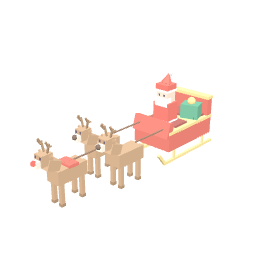
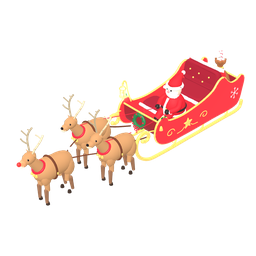
v236: 🛷 산타 썰매 v2 — 곡선 썰매·둥근 순록, 다른 유저 썰매는 가벼운 버전

Changed region(s): [[0.0625, 0.1875, 0.9688, 0.8125]]

diff --git a/sleigh-v236.js b/sleigh-v236.js
@@ -1,0 +1,236 @@
+// 피쉬코지 🛷 산타 썰매 v2 (v236 적용) — Three.js r147 순수 프로시저럴
+// 박스(BoxGeometry) 0개: 곡선 튜브 · 압출(베벨) · 회전체(Lathe) · 구 로만 만들어요.
+// 계약(기존 VEHB.V.santa 와 동일): 앞쪽 = +z, 바닥 y=0, 게임에서 ×1.7 스케일
+//   userData.seat=[0,.92,-.45] (플레이어 자리) · userData.legs=[{p,ph}] (다리 피벗) · userData.heads=[머리 그룹] · userData.pose='sit'
+// 사용: game-v2.js VEHB.V.santa(lite) → SLEIGH_V2(THREE,{lite}) · 내 썰매 = 기본, 다른 유저 썰매 = lite(가벼운 버전)
+(function(root){
+function SLEIGH_V2(T,opt){
+ T=T||root.THREE;opt=opt||{};const LITE=!!opt.lite,LQ=LITE?.5:1;/* lite: 멀리 있는 다른 유저용 가벼운 버전 */const V3=(x,y,z)=>new T.Vector3(x,y,z),V2=(x,y)=>new T.Vector2(x,y);
+ const C=SLEIGH_V2._c||(SLEIGH_V2._c={});
+ // ── 환경맵(작은 그라데이션 1장) : 황금·광택 도장이 검게 죽지 않게 ──
+ const env=C.env||(C.env=(()=>{const cv=document.createElement('canvas');cv.width=256;cv.height=128;const x=cv.getContext('2d');const g=x.createLinearGradient(0,0,0,128);
+  g.addColorStop(0,'#cfe3ff');g.addColorStop(.42,'#fff4dc');g.addColorStop(.5,'#ffd9a0');g.addColorStop(.56,'#bfc8d6');g.addColorStop(1,'#eef2f6');x.fillStyle=g;x.fillRect(0,0,256,128);
+  x.fillStyle='rgba(255,255,255,.95)';[[40,30,10],[150,22,14],[210,40,8]].forEach(([a,b,r])=>{x.beginPath();x.arc(a,b,r,0,7);x.fill();});
+  const t=new T.CanvasTexture(cv);t.mapping=T.EquirectangularReflectionMapping;t.encoding=T.sRGBEncoding;return t;})());
+ const M=C.m||(C.m={});
+ const LIN=o=>{o=Object.assign({},o);for(const k of ['color','emissive'])if(typeof o[k]==='string')o[k]=new T.Color(o[k]).convertSRGBToLinear();return o;};
+ const mat=(k,o)=>M[k]||(M[k]=new T.MeshStandardMaterial(LIN(o)));
+ const lac=mat('lac',{color:'#cc1a26',roughness:.26,metalness:.12,envMap:env,envMapIntensity:.9});
+ const lacD=mat('lacD',{color:'#8a1420',roughness:.5,metalness:.05,envMap:env,envMapIntensity:.5});
+ const gold=mat('gold',{color:'#ffd86a',roughness:.28,metalness:.62,envMap:env,envMapIntensity:1.2});
+ const velvet=mat('vel',{color:'#9c1a2e',roughness:.95,metalness:0});
+ const fur=mat('fur',{color:'#fbf7ef',roughness:1,metalness:0});
+ const holly=mat('holly',{color:'#1d6b3a',roughness:.45,metalness:0,side:T.DoubleSide,envMap:env,envMapIntensity:.4});
+ const berry=mat('berry',{color:'#d3122a',roughness:.25,metalness:0,envMap:env,envMapIntensity:.7});
+ const glow=M.glow||(M.glow=new T.MeshBasicMaterial(LIN({color:'#ffd27a'})));
+ const flame=M.flame||(M.flame=new T.MeshBasicMaterial(LIN({color:'#fff3c4'})));
+ const glass=mat('glass',{color:'#ffcf7a',roughness:.1,metalness:0,emissive:'#ffb44a',emissiveIntensity:.9,transparent:true,opacity:.55,depthWrite:false});
+ const brown=mat('dbr',{color:'#c48e5e',roughness:.8}),brownD=mat('dbrd',{color:'#8e6246',roughness:.8}),cream=mat('dcr',{color:'#e9d3b0',roughness:.9});
+ const antler=mat('ant',{color:'#dcc39b',roughness:.7}),hoof=mat('hoof',{color:'#33241c',roughness:.6}),ink=mat('ink',{color:'#1d1517',roughness:.3,envMap:env,envMapIntensity:.6});
+ const rnose=M.rnose||(M.rnose=new T.MeshStandardMaterial(LIN({color:'#ff3030',emissive:'#ff1a1a',emissiveIntensity:1.1,roughness:.3})));
+ const leather=mat('lea',{color:'#6e3a24',roughness:.6,metalness:.05});
+ const skin=mat('skin',{color:'#f8d2b4',roughness:.8}),suit=mat('suit',{color:'#d8222f',roughness:.65}),boot=mat('boot',{color:'#231a1a',roughness:.4,envMap:env,envMapIntensity:.4}),pink=mat('pink',{color:'#f29a9a',roughness:.9});
+ const sack=mat('sack',{color:'#a8643c',roughness:.95});
+ const gc={em:mat('gem',{color:'#16865a',roughness:.35,envMap:env,envMapIntensity:.6}),bl:mat('gbl',{color:'#2b5fc0',roughness:.35,envMap:env,envMapIntensity:.6}),pu:mat('gpu',{color:'#7c3fb0',roughness:.35,envMap:env,envMapIntensity:.6}),wh:mat('gwh',{color:'#f6f2ea',roughness:.4,envMap:env,envMapIntensity:.5}),gd:gold};
+ const silver=mat('sil',{color:'#e3e8ef',roughness:.25,metalness:.7,envMap:env,envMapIntensity:1.1});
+ const g=new T.Group(),legs=[],heads=[];
+ const add=(geo,m,p,par,r,s)=>{const o=new T.Mesh(geo,m);if(p)o.position.set(p[0],p[1],p[2]);if(r)o.rotation.set(r[0]||0,r[1]||0,r[2]||0);if(s)(typeof s==='number')?o.scale.setScalar(s):o.scale.set(s[0],s[1],s[2]);(par||g).add(o);return o;};
+ const tube=(pts,r,m,seg,rs,par,closed)=>add(new T.TubeGeometry(new T.CatmullRomCurve3(pts.map(p=>V3(p[0],p[1],p[2])),!!closed,'centripetal'),Math.max(2,Math.round((seg||32)*.8*LQ)),r,Math.min(rs||8,r<.02?4:r<.03?5:LITE?6:8),!!closed),m,null,par);
+ const sph=(r,m,p,s,par,ws,hs)=>add(new T.SphereGeometry(r,Math.max(5,Math.round((ws||10)*(LITE?.7:1))),Math.max(4,Math.round((hs||8)*(LITE?.7:1)))),m,p,par,null,s);
+ // 해시 노이즈(같은 위치 = 같은 값 → 이음매 안 갈라짐)
+ const hn=(x,y,z)=>{const s=Math.sin(x*12.9898+y*78.233+z*37.719)*43758.5453;return s-Math.floor(s);};
+ const fluff=(geo,amt)=>{const p=geo.attributes.position,n=geo.attributes.normal;for(let i=0;i<p.count;i++){const x=p.getX(i),y=p.getY(i),z=p.getZ(i),k=(Math.sin(x*33+y*13)*Math.sin(z*29+x*11)*.6+Math.sin(y*41+z*17)*.4)*amt*.55;p.setXYZ(i,x+n.getX(i)*k,y+n.getY(i)*k,z+n.getZ(i)*k);}geo.computeVertexNormals();return geo;};
+ const furTube=(pts,r,par,seg)=>{const geo=new T.TubeGeometry(new T.CatmullRomCurve3(pts.map(p=>V3(...p)),false,'centripetal'),Math.round((seg||28)*.75*LQ),r,LITE?6:8,false);fluff(geo,r*.4);return add(geo,fur,null,par);};
+ const lathe=(prof,seg,m,p,par,r)=>add(new T.LatheGeometry(prof.map(a=>V2(a[0],a[1])),seg||16),m,p,par,r);
+ // 둥근 모서리 사각형을 압출(베벨)한 쿠션 — 가로 w, 세로 d, 두께 h (y 방향)
+ const rrShape=(w,d,r)=>{const s=new T.Shape(),x=-w/2,y=-d/2;s.moveTo(x+r,y);s.lineTo(x+w-r,y);s.quadraticCurveTo(x+w,y,x+w,y+r);s.lineTo(x+w,y+d-r);s.quadraticCurveTo(x+w,y+d,x+w-r,y+d);s.lineTo(x+r,y+d);s.quadraticCurveTo(x,y+d,x,y+d-r);s.lineTo(x,y+r);s.quadraticCurveTo(x,y,x+r,y);return s;};
+ const pillow=(w,d,h,m,b,q)=>{b=b==null?Math.min(w,d,h)*.45:b;q=q||3;const geo=new T.ExtrudeGeometry(rrShape(w-2*b,d-2*b,Math.min(w-2*b,d-2*b)*.3),{depth:Math.max(.001,h-2*b),bevelEnabled:true,bevelThickness:b,bevelSize:b,bevelSegments:q,curveSegments:q});geo.translate(0,0,-(h-2*b)/2);geo.rotateX(-Math.PI/2);return new T.Mesh(geo,m);};
+ // ═════ 1. 썰매 옆판: 곡선 실루엣(S자 + 앞 소용돌이 + 뒤 꼬리) ═════
+ const OUT=[[-1.50,.36],[-.6,.33],[.4,.33],[.95,.36],[1.20,.48],[1.31,.70],[1.27,.95],[1.13,1.08],[.99,1.04],[.93,.93],[.78,.89],[.45,.86],[.05,.90],[-.30,.97],[-.60,1.09],[-.78,1.27],[-.94,1.31],[-1.07,1.17],[-1.25,1.04],[-1.47,1.05],[-1.62,1.13],[-1.71,1.02],[-1.66,.72],[-1.59,.47]];
+ const outC=new T.CatmullRomCurve3(OUT.map(p=>V3(p[0],p[1],0)),true,'centripetal');const OP=outC.getSpacedPoints(LITE?56:84);
+ const sideShape=new T.Shape(OP.slice(0,-1).map(p=>V2(p.x,p.y)));
+ const sideGeo=new T.ExtrudeGeometry(sideShape,{depth:.035,bevelEnabled:true,bevelThickness:.02,bevelSize:.02,bevelSegments:2,curveSegments:1});
+ sideGeo.rotateY(-Math.PI/2);// shape x→z, 두께 → -x
+ const PX=.6;
+ [-1,1].forEach(sd=>{const m=add(sideGeo,lac);m.position.x=sd>0?PX+.0175:-PX+.0175;
+  // 금색 몰딩: 실루엣 테두리 그대로 따라가는 튜브(바깥면 + 안쪽면)
+  {const pts=OP.map(p=>V3(sd*(PX+.0),p.y,p.x));add(new T.TubeGeometry(new T.CatmullRomCurve3(pts,true,'centripetal'),LITE?64:110,.036,LITE?5:6,true),gold);}
+  // 옆판 장식: 금색 별 + 소용돌이 필리그리 + 하얀 눈꽃
+  const star=new T.Shape();for(let i=0;i<10;i++){const a=i/10*Math.PI*2+Math.PI/2,r=i%2?.055:.13;i?star.lineTo(Math.cos(a)*r,Math.sin(a)*r):star.moveTo(Math.cos(a)*r,Math.sin(a)*r);}
+  const sg=new T.ExtrudeGeometry(star,{depth:.01,bevelEnabled:true,bevelThickness:.012,bevelSize:.01,bevelSegments:2});const st=add(sg,gold,[sd*(PX+.045),.62,.3]);st.rotation.y=sd*Math.PI/2;
+  if(!LITE)for(const zz of [-.25,.85]){const sw=[];for(let i=0;i<=26;i++){const t=i/26,a=t*Math.PI*2.3,r=.14*(1-t*.78);sw.push([sd*(PX+.045),.6+Math.sin(a)*r*.75,zz+(zz<0?-1:1)*(.02-Math.cos(a)*r)]);}tube(sw,.011,gold,40,5);}
+  // 별 양옆 덩굴선
+  tube([[sd*(PX+.045),.48,-.05],[sd*(PX+.045),.5,.12],[sd*(PX+.045),.56,.2]],.01,gold,10,5);tube([[sd*(PX+.045),.56,.4],[sd*(PX+.045),.5,.48],[sd*(PX+.045),.48,.65]],.01,gold,10,5);
+  // 뒤 짐칸 옆 눈꽃
+  if(!LITE){const fl=new T.Group();for(let i=0;i<6;i++){const a=i/6*Math.PI*2;const arm=add(new T.CylinderGeometry(.007,.007,.16,5),fur,[Math.sin(a)*.08,Math.cos(a)*.08,0],fl,[0,0,-a]);for(const s2 of [-1,1]){add(new T.CylinderGeometry(.006,.006,.05,4),fur,[Math.sin(a)*.11+Math.sin(a+s2*.9)*.02,Math.cos(a)*.11+Math.cos(a+s2*.9)*.02,0],fl,[0,0,-a-s2*.9]);}}
+  sph(.016,fur,[0,0,0],null,fl,8,6);fl.position.set(sd*(PX+.045),.74,-1.36);fl.rotation.y=sd*Math.PI/2;g.add(fl);}
+ });
+ // ═════ 2. 썰매 통(바닥·앞 대시·뒤 벽): 곡선 단면을 x로 압출 ═════
+ {const P=new T.CatmullRomCurve3([[1.18,.98],[1.17,.72],[1.08,.5],[.9,.42],[.2,.41],[-1.0,.41],[-1.5,.43],[-1.62,.6],[-1.63,.98]].map(p=>V3(p[0],p[1],0)),false,'centripetal').getSpacedPoints(60);
+  const th=.04,A=[],B=[];for(let i=0;i<P.length;i++){const a=P[Math.max(0,i-1)],b=P[Math.min(P.length-1,i+1)],tx=b.x-a.x,ty=b.y-a.y,l=Math.hypot(tx,ty);A.push(V2(P[i].x,P[i].y));B.push(V2(P[i].x+ty/l*th,P[i].y-tx/l*th));}
+  const sh=new T.Shape(A.concat(B.reverse()));const geo=new T.ExtrudeGeometry(sh,{depth:2*PX-.04,bevelEnabled:false,curveSegments:1});geo.rotateY(-Math.PI/2);geo.translate(PX-.02,0,0);add(geo,lacD);
+  // 대시 위 금 테두리 + 뒤 벽 위 금 테두리
+  tube([[-PX+.02,.99,1.18],[0,1.0,1.2],[PX-.02,.99,1.18]],.024,gold,12,6);tube([[-PX+.02,.99,-1.63],[0,1.0,-1.65],[PX-.02,.99,-1.63]],.024,gold,12,6);}
+ // 뒤 벽 바깥 장식: 금 별 + 양쪽 소용돌이
+ {const st=new T.Shape();for(let i=0;i<10;i++){const a=i/10*Math.PI*2+Math.PI/2,r=i%2?.05:.12;i?st.lineTo(Math.cos(a)*r,Math.sin(a)*r):st.moveTo(Math.cos(a)*r,Math.sin(a)*r);}
+  const sgb=new T.ExtrudeGeometry(st,{depth:.01,bevelEnabled:true,bevelThickness:.012,bevelSize:.01,bevelSegments:2});add(sgb,gold,[0,.72,-1.69],null,[0,Math.PI,0]);
+  for(const sd of [-1,1]){const sw=[];for(let i=0;i<=22;i++){const t=i/22,a=t*Math.PI*2.2,r=.12*(1-t*.75);sw.push([sd*(.2+.02-Math.cos(a)*r),.7+Math.sin(a)*r*.7,-1.69]);}tube(sw,.011,gold,30,5);}}
+ // ═════ 3. 썰매 날: 앞이 우아하게 말려 올라가는 황금 곡선 + 곡선 지지대 ═════
+ const RX=.5;
+ const RUN=[[-1.86,.24],[-1.84,.1],[-1.7,.035],[-1.2,.03],[0,.03],[1.0,.03],[1.42,.07],[1.68,.24],[1.8,.5],[1.76,.75],[1.62,.86],[1.47,.82],[1.42,.68],[1.5,.6],[1.6,.65]];
+ [-1,1].forEach(sd=>{tube(RUN.map(p=>[sd*RX,p[1],p[0]]),.04,gold,76,7);
+  sph(.05,gold,[sd*RX,.65,1.6],null,null,10,8);sph(.045,gold,[sd*RX,.24,-1.86],null,null,10,8);
+  // S자 지지대 (날 → 썰매 바닥)
+  for(const z of [-1.25,-.35,.6])tube([[sd*RX,.05,z+.06],[sd*(RX+.05),.15,z],[sd*(RX+.03),.25,z-.05],[sd*(PX-.06),.36,z-.02]],.022,gold,14,6);
+  // 앞 소용돌이 → 옆판 앞쪽 연결
+  tube([[sd*RX,.78,1.66],[sd*(RX+.04),.85,1.45],[sd*(PX-.03),.82,1.28]],.018,gold,12,6);
+ });
+ // 날 사이 가로대 (곡선)
+ for(const z of [-1.25,.6])tube([[-RX,.13,z],[0,.2,z],[RX,.13,z]],.018,gold,10,5);
+ // ═════ 4. 좌석: 벨벳 쿠션 + 하얀 털 트리밍 + 단추 등받이 ═════
+ const bench=(z,top,d)=>{const base=pillow(1.12,d,top-.42,lac,.04);base.position.set(0,(top-.42)/2+.42,z);g.add(base);
+  const cu=pillow(1.1,d+.04,.13,velvet,.055);cu.position.set(0,top+.03,z);g.add(cu);
+  furTube([[-.56,top+.02,z+d/2+.03],[0,top+.035,z+d/2+.05],[.56,top+.02,z+d/2+.03]],.042,null,22);};
+ bench(-.45,.88,.56);// 플레이어 자리 (seat y .92 → 쿠션 윗면 ≈ .97)
+ bench(.42,.74,.46); // 산타 자리
+ // 등받이: 휘어진 벨벳 쿠션 + 금 단추 + 털 테두리
+ {const geo=new T.ExtrudeGeometry(rrShape(1.0,.42,.12),{depth:.06,bevelEnabled:true,bevelThickness:.05,bevelSize:.05,bevelSegments:4,curveSegments:6});
+  const p=geo.attributes.position;for(let i=0;i<p.count;i++){const x=p.getX(i),y=p.getY(i);p.setZ(i,p.getZ(i)-x*x*.22+ (Math.abs(x)<.45&&Math.abs(y)<.18?0:0));}geo.computeVertexNormals();
+  const br=add(geo,velvet,[0,1.18,-.84],null,[-.22,0,0]);
+  // 뒤판(래커)
+  const bg=new T.ExtrudeGeometry(rrShape(1.14,.66,.16),{depth:.03,bevelEnabled:true,bevelThickness:.02,bevelSize:.02,bevelSegments:2,curveSegments:6});const pb=bg.attributes.position;for(let i=0;i<pb.count;i++){const x=pb.getX(i);pb.setZ(i,pb.getZ(i)-x*x*.22);}bg.computeVertexNormals();add(bg,lac,[0,1.1,-.93],null,[-.22,0,0]);
+  for(const [x,y] of [[-.3,.08],[0,.08],[.3,.08],[-.15,-.08],[.15,-.08]]){const zc=-.84+.11-x*x*.22;const yy=1.18+y*Math.cos(.22),zz=zc-y*Math.sin(.22);sph(.022,gold,[x,yy,zz],null,null,8,6);}
+  const tp=[];for(let i=0;i<=12;i++){const x=-.55+i/12*1.1;tp.push([x,1.43,-.84-.33*Math.sin(.22)-.06-x*x*.22]);}furTube(tp,.05,null,26);}
+ // ═════ 5. 앞 장식: 리스(호랑가시) + 금 방울 + 발광 랜턴 ═════
+ const leafShape=(()=>{const s=new T.Shape();s.moveTo(0,0);const L=.11,W=.035;const pts=[];for(let i=0;i<=8;i++){const t=i/8,w=Math.sin(t*Math.PI)*W*(i%2?1.25:.8);pts.push([t*L,w]);}pts.forEach(p=>s.lineTo(p[0],p[1]));for(let i=8;i>=0;i--){const t=i/8,w=Math.sin(t*Math.PI)*W*(i%2?1.25:.8);s.lineTo(t*L,-w);}return s;})();
+ const leafGeo=new T.ShapeGeometry(leafShape,2);{const p=leafGeo.attributes.position;for(let i=0;i<p.count;i++){const x=p.getX(i),y=p.getY(i);p.setZ(i,-y*y*4+Math.sin(x*25)*.004);}leafGeo.computeVertexNormals();}
+ const sprig=(par,p,rot,sc,n)=>{const h=new T.Group();h.position.set(...p);h.rotation.set(...rot);h.scale.setScalar(sc||1);par.add(h);n=n||3;for(let i=0;i<n;i++){const a=(i/n)*Math.PI*2+.3;const l=add(leafGeo,holly,[0,0,0],h,[0,0,a]);l.rotation.x=.35;}for(const [x,y] of [[.012,.01],[-.014,.008],[0,-.016]])sph(.019,berry,[x,y,.02],null,h,7,5);return h;};
+ // 앞 대시 중앙 리스
+ {const w=new T.Group();w.position.set(0,.78,1.235);w.rotation.x=-.18;g.add(w);
+  const tg=new T.TorusGeometry(.15,.045,7,22);fluff(tg,.02);add(tg,holly,null,w);
+  for(let i=0;i<12;i++){const a=i/12*Math.PI*2;const l=add(leafGeo,holly,[Math.cos(a)*.15,Math.sin(a)*.15,.035],w,[0,0,a+1.4]);l.scale.setScalar(.8);}
+  for(let i=0;i<7;i++){const a=i/7*Math.PI*2+.2;sph(.02,berry,[Math.cos(a)*.17,Math.sin(a)*.17,.05],null,w,7,5);}
+  // 빨간 리본
+  const bow=new T.Group();bow.position.set(0,-.15,.06);w.add(bow);for(const s of [-1,1]){add(new T.TorusGeometry(.045,.016,6,14),berry,[s*.045,0,0],bow,[0,0,0],[1,.7,.6]);tube([[s*.01,-.01,0],[s*.04,-.07,.01],[s*.03,-.12,0]],.012,berry,8,5,bow);}sph(.022,berry,[0,0,.005],null,bow,8,6);}
+ // 금 방울 (앞 소용돌이 끝에 매달림)
+ const bellGeo=new T.LatheGeometry([[0,.0],[.04,.006],[.03,.05],[.016,.083],[0,.09]].map(a=>V2(a[0],a[1])),9);
+ const bell=(par,p,s)=>{const b=new T.Group();b.position.set(...p);b.scale.setScalar(s||1);par.add(b);add(bellGeo,gold,[0,-.09,0],b);sph(.012,brownD,[0,-.088,0],null,b,5,4);return b;};
+ [-1,1].forEach(sd=>{tube([[sd*(PX+.01),1.06,1.13],[sd*(PX+.03),.98,1.17],[sd*(PX+.04),.92,1.18]],.006,leather,6,4);bell(g,[sd*(PX+.04),.935,1.18],1.3);sprig(g,[sd*(PX+.02),1.08,1.1],[0,sd*Math.PI/2,0],1);});
+ // 랜턴: 금 고리 기둥 + 회전체 등 + 발광 유리
+ {const L=new T.Group();g.add(L);
+  tube([[-.52,.98,1.0],[-.56,1.25,1.06],[-.56,1.52,1.12],[-.5,1.62,1.24],[-.44,1.58,1.33]],.017,gold,24,6,L);
+  const lt=new T.Group();lt.position.set(-.44,1.36,1.33);L.add(lt);
+  tube([[0,.2,0],[0,.24,0]],.006,gold,2,4,lt);add(new T.TorusGeometry(.022,.006,5,12),gold,[0,.255,0],lt,[0,Math.PI/2,0]);
+  lathe([[0,.2],[.03,.195],[.075,.15],[.085,.13],[.06,.125]],14,gold,[0,0,0],lt);
+  add(new T.CylinderGeometry(.06,.06,.17,14,1,true),glass,[0,.04,0],lt);
+  lathe([[.06,-.045],[.085,-.06],[.075,-.09],[.03,-.1],[0,-.105]],14,gold,[0,0,0],lt);
+  for(let i=0;i<4;i++){const a=i/4*Math.PI*2+.4;add(new T.CylinderGeometry(.007,.007,.18,5),gold,[Math.cos(a)*.062,.04,Math.sin(a)*.062],lt);}
+  add(new T.SphereGeometry(.025,8,8),flame,[0,.02,0],lt,null,[1,1.6,1]);add(new T.CylinderGeometry(.008,.01,.05,6),fur,[0,-.02,0],lt);
+  // 부드러운 빛 번짐(스프라이트 · 점조명 없음 → 멀티에서 셰이더 재컴파일·부하 없음)
+  const gt=C.glowTex||(C.glowTex=(()=>{const cv=document.createElement('canvas');cv.width=cv.height=64;const x=cv.getContext('2d'),gr=x.createRadialGradient(32,32,0,32,32,32);gr.addColorStop(0,'rgba(255,214,140,.9)');gr.addColorStop(.35,'rgba(255,180,90,.35)');gr.addColorStop(1,'rgba(255,160,60,0)');x.fillStyle=gr;x.fillRect(0,0,64,64);return new T.CanvasTexture(cv);})());
+  const sp=new T.Sprite(new T.SpriteMaterial({map:gt,transparent:true,depthWrite:false,blending:T.AdditiveBlending}));sp.scale.setScalar(.55);sp.position.set(0,.04,0);lt.add(sp);
+  g.userData.glow=sp;}
+ // ═════ 6. 뒤 짐칸: 선물 자루 + 둥근 선물 상자들 (크기·각도 제각각) ═════
+ {const P=new T.Group();g.add(P);
+  // 선물 자루: 회전체 + 주름 + 금 끈
+  const prof=[[0,0],[.2,.01],[.3,.06],[.34,.18],[.33,.32],[.26,.44],[.13,.53],[.075,.58],[.09,.62],[.15,.67],[.17,.71],[.12,.72]];
+  const sg=new T.LatheGeometry(prof.map(a=>V2(a[0],a[1])),24);{const p=sg.attributes.position;for(let i=0;i<p.count;i++){const x=p.getX(i),y=p.getY(i),z=p.getZ(i),a=Math.atan2(z,x),r=Math.hypot(x,z),k=1+(y>.6?Math.sin(a*6)*.13*Math.min(1,(y-.6)/.06):Math.sin(a*5+y*6)*.04)+Math.sin(x*23+z*17)*Math.sin(y*19)*.025;p.setXYZ(i,x*k,y,z*k);}sg.computeVertexNormals();}
+  const SG=new T.Group();SG.position.set(.19,.43,-1.29);SG.rotation.set(-.1,.4,.06);P.add(SG);add(sg,sack,null,SG,null,[.84,1.45,.84]);
+  add(new T.TorusGeometry(.07,.019,6,16),gold,[0,.835,0],SG,[Math.PI/2,0,0]);
+  tube([[.06,.83,.03],[.12,.72,.1],[.15,.6,.12]],.011,gold,8,5,SG);sph(.022,gold,[.15,.59,.12],null,SG,8,6);
+  // 자루에서 삐죽 나온 지팡이 사탕
+  {const cc=[];for(let i=0;i<=14;i++){const t=i/14;cc.push(t<.75?[.0,t/.75*.42,0]:[Math.sin((t-.75)/.25*Math.PI)*-.07,.42+Math.sin((t-.75)/.25*Math.PI*.5)*.06,0]);}
+   const grp=new T.Group();grp.position.set(.2,1.18,-1.36);grp.rotation.set(-.35,0,.35);P.add(grp);tube(cc,.022,fur,30,8,grp);
+   const sp2=[];for(let i=0;i<=60;i++){const t=i/60,c=new T.CatmullRomCurve3(cc.map(q=>V3(...q))).getPoint(t),a=t*Math.PI*14;sp2.push([c.x+Math.cos(a)*.017,c.y,c.z+Math.sin(a)*.017]);}if(!LITE)tube(sp2,.008,berry,70,4,grp);}
+  // 선물 상자 = 모서리 둥근 상자 + 두 줄 리본 + 입체 매듭(고리 2개 + 꼬리)
+  const gift=(w,h,d,body,rib,p,rot)=>{const G=new T.Group();G.position.set(...p);G.rotation.set(...rot);P.add(G);const b=pillow(w,d,h,body,Math.min(w,h,d)*.16,2);b.position.y=h/2;G.add(b);
+   const b1=pillow(w+.012,.05,h+.012,rib,.012,1);b1.position.y=h/2;G.add(b1);const b2=pillow(.05,d+.012,h+.012,rib,.012,1);b2.position.y=h/2;G.add(b2);
+   const bow=new T.Group();bow.position.y=h+.005;G.add(bow);const s=Math.min(w,d)*.9;
+   for(const sd of [-1,1]){const lp=add(new T.TorusGeometry(s*.17,s*.055,5,12),rib,[sd*s*.15,s*.08,0],bow,[0,0,sd*.55],[1,.75,.55]);}
+   for(const sd of [-1,1])tube([[0,.01,0],[sd*s*.12,.0,s*.15],[sd*s*.2,-.005,s*.3]],s*.03,rib,8,5,bow);
+   sph(s*.06,rib,[0,s*.04,0],null,bow,8,6);return G;};
+  gift(.36,.32,.34,gc.em,gold,[-.3,.43,-1.24],[0,.25,0]);
+  gift(.26,.22,.26,gc.bl,silver,[-.3,.75,-1.26],[.05,-.45,.1]);
+  gift(.17,.15,.17,gc.pu,gold,[-.27,.97,-1.29],[-.08,.5,-.12]);
+  // 원통 선물(모자 상자) + 리본
+  {const G=new T.Group();G.position.set(.43,.43,-.99);G.scale.setScalar(.95);G.rotation.y=.4;P.add(G);add(new T.CylinderGeometry(.13,.13,.18,20),gold,[0,.09,0],G);add(new T.CylinderGeometry(.138,.138,.045,20),gold,[0,.185,0],G);
+   add(new T.TorusGeometry(.137,.012,5,22),berry,[0,.1,0],G,[Math.PI/2,0,0]);for(const sd of [-1,1])add(new T.TorusGeometry(.04,.013,6,14),berry,[sd*.035,.225,0],G,[0,0,sd*.55],[1,.75,.55]);sph(.018,berry,[0,.215,0],null,G,8,6);}
+  sprig(P,[.0,1.35,-.98],[-.6,0,0],1.1,3);
+ }
+ // ═════ 7. 산타 할아버지 (둥근 몸 · 앞자리에서 고삐를 잡음) ═════
+ {const S=new T.Group();S.position.set(.28,.8,.4);S.rotation.y=-.06;g.add(S);// 오른쪽에 앉아 플레이어 낚싯대 길을 비워요
+  lathe([[0,0],[.22,.01],[.27,.08],[.28,.2],[.25,.32],[.19,.42],[.12,.47],[0,.48]],18,suit,[0,0,0],S);
+  furTube((()=>{const a=[];for(let i=0;i<=20;i++){const t=i/20*Math.PI*2;a.push([Math.cos(t)*.255,.035,Math.sin(t)*.255]);}return a;})(),.035,S,30);
+  add(new T.TorusGeometry(.272,.03,6,28),ink,[0,.18,0],S,[Math.PI/2,0,0]);
+  {const bk=pillow(.11,.04,.08,gold,.012);bk.position.set(0,.18,.27);S.add(bk);}
+  furTube([[0,.04,.27],[0,.24,.29],[0,.44,.17]],.03,S,10);
+  // 다리 + 장화
+  for(const sd of [-1,1]){tube([[sd*.11,.06,.05],[sd*.12,.04,.28],[sd*.12,-.08,.4]],.085,suit,10,10,S);add(new T.SphereGeometry(.075,12,10),boot,[sd*.12,-.2,.44],S,null,[1,.75,1.5]);add(new T.CylinderGeometry(.075,.075,.14,12),boot,[sd*.12,-.13,.4],S);}
+  // 팔 (고삐 잡기)
+  for(const sd of [-1,1]){tube([[sd*.2,.38,.0],[sd*.27,.28,.12],[sd*.18,.2,.3]],.065,suit,12,10,S);furTube([[sd*.21,.17,.27],[sd*.17,.23,.33]],.045,S,6);sph(.055,boot,[sd*.16,.21,.36],null,S,10,8);}
+  // 머리
+  const H=new T.Group();H.position.set(0,.6,0);S.add(H);
+  sph(.17,skin,[0,0,0],null,H,14,10);
+  const bd=new T.SphereGeometry(.16,14,10,0,Math.PI*2,Math.PI*.35,Math.PI*.65);fluff(bd,.03);add(bd,fur,[0,-.03,.04],H,null,[1.05,1.15,1]);
+  for(const sd of [-1,1]){add(new T.SphereGeometry(.05,10,8),fur,[sd*.045,-.03,.16],H,[0,0,sd*-.4],[1.2,.6,.7]);sph(.028,pink,[sd*.09,.0,.135],null,H,8,6);sph(.019,ink,[sd*.06,.05,.155],null,H,8,6);add(new T.CapsuleGeometry?new T.CapsuleGeometry(.012,.04,3,6):new T.SphereGeometry(.02,6,4),fur,[sd*.065,.095,.15],H,[0,0,Math.PI/2+sd*.2]);}
+  sph(.035,pink,[0,.01,.175],null,H,10,8);
+  // 모자: 휘어진 원뿔(회전체 후 굽힘) + 털 테두리 + 방울
+  const hg=new T.LatheGeometry([[0,0],[.17,0],[.15,.08],[.11,.18],[.07,.27],[.03,.34],[0,.37]].map(a=>V2(a[0],a[1])),16);{const p=hg.attributes.position;for(let i=0;i<p.count;i++){const y=p.getY(i);p.setZ(i,p.getZ(i)-y*y*1.6);p.setY(i,y*(1-y*.5));}hg.computeVertexNormals();}
+  add(hg,suit,[0,.1,-.01],H,[-.15,0,0]);
+  furTube((()=>{const a=[];for(let i=0;i<=20;i++){const t=i/20*Math.PI*2;a.push([Math.cos(t)*.17,.0,Math.sin(t)*.17]);}return a;})(),.04,H,30).position.set(0,.11,-.01);
+  sph(.05,fur,[0,.34,-.27],null,H,10,8).geometry=fluff(new T.SphereGeometry(.05,10,8),.015);
+  heads.push(H);}
+ // ═════ 8. 순록 3마리 (둥근 몸 · 2마디 다리 · 가지 뿔 · 하네스) — 앞장은 빨간 코 루돌프 ═════
+ const deerGeo=C['deer'+LITE]||(C['deer'+LITE]=(()=>{const D={};
+  const bp=new T.SplineCurve([[0,-.5],[.13,-.46],[.21,-.36],[.245,-.2],[.25,-.04],[.27,.13],[.265,.27],[.21,.39],[.12,.47],[0,.5]].map(a=>V2(a[0],a[1]))).getPoints(14);D.body=new T.LatheGeometry(bp,LITE?12:22);D.body.rotateX(Math.PI/2);D.body.scale(.92,1,1);
+  D.neck=new T.CylinderGeometry(.095,.15,.5,12,1,true);
+  D.head=new T.SphereGeometry(1,LITE?8:11,LITE?6:8);D.ear=new T.ConeGeometry(.05,.13,7);D.ear.scale(1,1,.45);
+  D.up=new T.CylinderGeometry(.075,.052,.36,9);D.up.translate(0,-.18,0);D.lo=new T.CylinderGeometry(.05,.034,.34,8);D.lo.translate(0,-.17,0);D.hf=new T.CylinderGeometry(.036,.046,.06,8);
+  D.knee=new T.SphereGeometry(.05,6,4);D.thigh=new T.SphereGeometry(1,LITE?7:9,LITE?5:7);D.thigh.scale(.1,.2,.13);D.fet=new T.SphereGeometry(.042,6,4);D.fet.scale(1,.7,1);
+  const A=[];const am=(pts,r)=>{if(!LITE||A.length<2)A.push(new T.TubeGeometry(new T.CatmullRomCurve3(pts.map(p=>V3(...p)),false,'centripetal'),LITE?5:8,r,LITE?4:5,false));};
+  am([[0,0,0],[.06,.12,-.02],[.13,.25,-.06],[.16,.36,-.13],[.14,.45,-.21]],.021);am([[.08,.15,-.03],[.15,.22,.04],[.2,.27,.06]],.016);am([[.14,.29,-.08],[.22,.36,-.04],[.27,.4,-.02]],.014);am([[.15,.38,-.15],[.1,.46,-.1],[.08,.5,-.06]],.012);
+  D.ant=A;
+  D.tail=new T.SphereGeometry(.06,8,6);fluff(D.tail,.02);
+  D.collar=new T.TorusGeometry(.15,.028,6,18);D.strap=new T.TorusGeometry(.265,.026,5,22);
+  return D;})());
+ function deer(x,z,s,rud,ph0){const d=new T.Group();d.position.set(x,0,z);d.scale.setScalar(s);g.add(d);const D=deerGeo;
+  add(D.body,brown,[0,.84,0],d);
+  add(new T.SphereGeometry(.2,12,9),brown,[0,.84,.3],d,null,[.95,1.05,.75]);// 가슴
+  add(new T.SphereGeometry(.2,12,8),cream,[0,.665,-.02],d,null,[.8,.3,1.5]);// 배
+  const nk=add(D.neck,brown,[0,1.07,.42],d,[.62,0,0]);
+  const hd=new T.Group();hd.position.set(0,1.3,.55);d.add(hd);heads.push(hd);
+  add(D.head,brown,[0,.04,.04],hd,[.25,0,0],[.13,.13,.17]);add(D.head,brown,[0,-.02,.19],hd,[.15,0,0],[.085,.08,.11]);add(D.head,cream,[0,-.05,.22],hd,[.15,0,0],[.07,.05,.09]);
+  if(rud){add(D.head,rnose,[0,-.0,.3],hd,null,[.05,.05,.05]);const gt=C.rg||(C.rg=(()=>{const cv=document.createElement('canvas');cv.width=cv.height=64;const x=cv.getContext('2d'),gr=x.createRadialGradient(32,32,0,32,32,32);gr.addColorStop(0,'rgba(255,90,90,.85)');gr.addColorStop(.4,'rgba(255,40,40,.3)');gr.addColorStop(1,'rgba(255,0,0,0)');x.fillStyle=gr;x.fillRect(0,0,64,64);return new T.CanvasTexture(cv);})());const sp=new T.Sprite(new T.SpriteMaterial({map:gt,transparent:true,depthWrite:false,blending:T.AdditiveBlending}));sp.scale.setScalar(.32);sp.position.set(0,0,.31);hd.add(sp);}
+  else add(D.head,ink,[0,.0,.29],hd,null,[.035,.03,.03]);
+  for(const sd of [-1,1]){sph(.024,ink,[sd*.085,.07,.12],null,hd,8,6);sph(.008,fur,[sd*.09,.08,.135],null,hd,5,4);
+   add(D.ear,brown,[sd*.12,.12,-.02],hd,[0,0,sd*-1.1]);
+   const an=new T.Group();an.position.set(sd*.05,.14,-.02);an.scale.set(sd,1,1);hd.add(an);D.ant.forEach(a=>add(a,antler,null,an));}
+  // 다리: 엉덩이 피벗(기존 애니 그대로) · 허벅지 → 무릎 → 정강이 → 발굽
+  [[-.13,.3],[.13,.3],[-.13,-.3],[.13,-.3]].forEach(([lx,lz],i)=>{const p=new T.Group();p.position.set(lx,.76,lz);d.add(p);const bk=lz<0;
+   add(D.thigh,brown,[0,-.04,bk?-.02:.0],p,null,bk?[1,1.15,1.15]:[.9,1,1]);// 허벅지 근육 (몸통과 이어짐)
+   add(D.up,brown,[0,-.02,0],p,[bk?-.14:.05,0,0]);if(!LITE)add(D.knee,brownD,[0,-.36,bk?-.05:.02],p);add(D.lo,brownD,[0,-.36,bk?-.05:.02],p,[bk?.14:-.03,0,0]);add(D.hf,hoof,[0,-.73,bk?.0:.01],p);legs.push({p,ph:((lx<0)===(lz>0)?0:Math.PI)+(ph0||0)});});
+  add(D.tail,fur,[0,1.02,-.5],d);
+  // 하네스: 목걸이 + 금방울 · 몸통 끈 + 금 버클 + 빨간 안장 천
+  add(D.collar,berry,[0,1.0,.38],d,[Math.PI/2+.62,0,0],[1,1,1]);for(let i=LITE?0:-1;i<=(LITE?0:1);i++){const a=i*.55;bell(d,[Math.sin(a)*.15,.93-Math.cos(a)*.04,.48+Math.cos(a)*.03],.8);}
+  add(D.strap,leather,[0,.84,.08],d,null,[.95,1.04,1]);
+  {const bk=pillow(.07,.03,.07,gold,.01,1);bk.position.set(.25,.82,.08);bk.rotation.z=Math.PI/2;d.add(bk);if(!LITE)bell(d,[0,.6,.08],.9);}
+  return d;}
+ const dl=deer(-.42,2.3,.95,false,0),dr=deer(.42,2.3,.95,false,.7),dlead=deer(0,3.7,.95,true,1.4);
+ // 끌줄: 썰매 앞 → 순록 쌍 → 앞장 순록 (가죽, 살짝 처짐) · 고삐: 산타 손 → 앞 순록 목
+ for(const sd of [-1,1]){tube([[sd*.3,.5,1.22],[sd*.36,.62,1.6],[sd*.42,.78,2.0],[sd*.42,.8,2.08]],.016,leather,16,5);
+  tube([[sd*.42,.82,2.62],[sd*.25,.85,3.0],[sd*.06,.84,3.35],[0,.86,3.45]],.014,leather,16,5);
+  tube([[.28+sd*.15,1.01,.77],[.14+sd*.3,.97,1.4],[sd*.42,1.0,2.1],[sd*.42,1.1,2.62]],.009,berry,20,4);}
+
+ // ── 드로우콜 줄이기: 움직이는 부품(다리 피벗·머리)은 게임의 slimGroup 이 못 합치므로, 그룹마다 정점색 메시 1개로 미리 구워요 ──
+ const VC=M.vc||(M.vc=new T.MeshStandardMaterial({vertexColors:true,roughness:.75,metalness:0}));
+ const bakeGrp=grp=>{grp.updateMatrixWorld(true);const inv=new T.Matrix4().copy(grp.matrixWorld).invert(),L=[],dead=[];
+  grp.traverse(o=>{if(!o.isMesh||o===grp)return;const m=o.material;if(m.emissive&&m.emissive.getHex()>0||m.transparent||m.map)return;let gg=o.geometry.index?o.geometry.toNonIndexed():o.geometry.clone();gg.applyMatrix4(new T.Matrix4().multiplyMatrices(inv,o.matrixWorld));L.push([gg,m.color]);dead.push(o);});
+  if(L.length<2)return;let n=0;L.forEach(([gg])=>n+=gg.attributes.position.count);const P=new Float32Array(n*3),N=new Float32Array(n*3),Cc=new Float32Array(n*3);let w=0;
+  for(const [gg,c] of L){const a=gg.attributes.position,b=gg.attributes.normal;for(let i=0;i<a.count;i++,w++){P[w*3]=a.getX(i);P[w*3+1]=a.getY(i);P[w*3+2]=a.getZ(i);N[w*3]=b.getX(i);N[w*3+1]=b.getY(i);N[w*3+2]=b.getZ(i);Cc[w*3]=c.r;Cc[w*3+1]=c.g;Cc[w*3+2]=c.b;}gg.dispose();}
+  const geo=new T.BufferGeometry();geo.setAttribute('position',new T.BufferAttribute(P,3));geo.setAttribute('normal',new T.BufferAttribute(N,3));geo.setAttribute('color',new T.BufferAttribute(Cc,3));geo.computeBoundingSphere();
+  dead.forEach(o=>o.parent.remove(o));grp.add(new T.Mesh(geo,VC));};
+ legs.forEach(l=>bakeGrp(l.p));heads.forEach(bakeGrp);
+ g.userData.seat=[0,.92,-.45];g.userData.legs=legs;g.userData.heads=heads;g.userData.pose='sit';g.userData.v2=1;
+ return g;}
+root.SLEIGH_V2=SLEIGH_V2;if(typeof module!=='undefined')module.exports=SLEIGH_V2;
+})(typeof window!=='undefined'?window:globalThis);

diff --git a/game-v2.js b/game-v2.js
@@ -5102,7 +5102,8 @@ const VEHB=(()=>{const T=THREE,M={},mat=(c,e)=>M[c+(e?'e':'')]||(M[c+(e?'e':'')]
   if(nose)B(d,.46,.08,.3,'#c8382e',0,.98,-.02);d.position.set(x,0,z);d.scale.setScalar(s);g.add(d);if(legs)legs.push(...L);d.userData.head=hd;return d;}
  const CAR_C={mint:'#7fd3c2',red:'#d83a32',black:'#2b2c34',rainbow:'#ff00fe'};
  const V={
-  santa(){const g=new T.Group(),legs=[];runners(g,2.2,.55,'#e8c35a');B(g,1.2,.5,1.9,'#c8382e',0,.6,0);B(g,1.24,.08,1.94,'#e8c35a',0,.86,0);B(g,1.2,.7,.2,'#c8382e',0,1.05,-.86);B(g,1.24,.08,.24,'#e8c35a',0,1.42,-.86);B(g,1.2,.42,.18,'#c8382e',0,.92,.9,[-.3,0,0]);
+  /* v236: 🛷 산타 썰매 v2 (sleigh-v236.js · 곡선 썰매·둥근 순록) — lite=다른 유저용 가벼운 버전 · 파일이 없으면 예전 모델 */
+  santa(lite){if(window.SLEIGH_V2)try{return SLEIGH_V2(T,{lite:!!lite});}catch(e){console.warn('sleigh v2',e);}const g=new T.Group(),legs=[];runners(g,2.2,.55,'#e8c35a');B(g,1.2,.5,1.9,'#c8382e',0,.6,0);B(g,1.24,.08,1.94,'#e8c35a',0,.86,0);B(g,1.2,.7,.2,'#c8382e',0,1.05,-.86);B(g,1.24,.08,.24,'#e8c35a',0,1.42,-.86);B(g,1.2,.42,.18,'#c8382e',0,.92,.9,[-.3,0,0]);
    B(g,1.0,.12,.5,'#7a2a26',0,.9,-.5);B(g,1.0,.12,.5,'#7a2a26',0,.9,.32);
    const sa=new T.Group();B(sa,.5,.55,.42,'#d8382e',0,.32,0);B(sa,.52,.1,.44,'#ffffff',0,.06,0);B(sa,.36,.34,.34,'#f3c9a8',0,.76,0);B(sa,.4,.24,.2,'#ffffff',0,.62,.12);B(sa,.4,.18,.38,'#d8382e',0,1.0,0);C(sa,.0,.16,.3,'#d8382e',0,1.22,-.06,[-.4,0,0],6);S(sa,.07,'#ffffff',0,1.34,-.16);B(sa,.42,.06,.4,'#ffffff',0,.92,0);[-.08,.08].forEach(ex=>B(sa,.05,.05,.02,'#2b2230',ex,.8,.17));sa.position.set(0,.9,.38);g.add(sa);
    B(g,.5,.4,.4,'#2e7d55',.3,1.1,-.4,[0,.3,0]);S(g,.12,'#e8c35a',.3,1.36,-.4);
@@ -5207,7 +5208,7 @@ setInterval(()=>{let b=$('vehBtn');const pas=!!VPAS.id;const show=pas||(vehOn()&
  if(!b){b=document.createElement('button');b.id='vehBtn';b.type='button';document.body.appendChild(b);b.onclick=()=>{if(VPAS.id){pasOff('🚗 옆자리에서 내렸어요');return;}S.vehRide=S.vehRide?0:1;save();};}b.style.display='';const v=VEHS.find(x=>x.k===S.vehOn)||{n:''},t=pas?'🛬 옆자리에서 내리기':S.vehRide?`🛬 ${v.n}에서 내리기`:`🛷 ${v.n} 타기`;if(b._t!==t){b._t=t;b.textContent=t;b.classList.toggle('on',!!S.vehRide||pas);}},300);
 // 3D
 const VW={me:null,mk:'',peers:new Map()};
-function vehMesh(x){const k=vehBase(x),v=VEHS.find(y=>y.k===k),g=k==='car'?VEHB.V.car(vehCc(x)):VEHB.V[k]();g.scale.setScalar(v.sc);g.userData.sc=v.sc;g.userData.amp=0;g.userData.t=0;return g;}
+function vehMesh(x,lite){const k=vehBase(x),v=VEHS.find(y=>y.k===k),g=k==='car'?VEHB.V.car(vehCc(x)):VEHB.V[k](lite);g.scale.setScalar(v.sc);g.userData.sc=v.sc;g.userData.amp=0;g.userData.t=0;return g;}
 /* v183: 여러 자리(요트 4인승) — two=1,2,3 … 은 같이 탄 사람 자리 번호 */function vehSeat(g,two){const U=g.userData,s=two?((U.seats&&U.seats[(+two||1)-1])||U.seat2||U.seat):U.seat,v=new THREE.Vector3(s[0],s[1],s[2]);g.updateMatrixWorld(true);return g.localToWorld(v);}
 {const mm=mvMul;mvMul=function(){return mm.apply(this,arguments)*(VW.me&&vehCan()&&S.vehRide?1+vehSpd(VW.mk)/100:1);};}
 // 달리는 모습: 다리 흔들기 · 머리 끄덕 · 꼬리 · 바퀴 · 무지개 색 · 배기 연기(내 화면에서만)
@@ -5241,7 +5242,7 @@ RHOOK.push((r,p,dt)=>{const ps=vehOn()&&p.ex&&p.ex.ps;
  if(ps){let g=null;const myId=window.NK_RT&&NK_RT.id;if(myId&&String(myId).startsWith(ps)&&VW.me&&vehPas(VW.mk))g=VW.me;else for(const [id,e] of VW.peers)if(String(id).startsWith(ps)&&vehPas(e.k)){g=e.g;break;}
   if(g){const pn=+(p.ex&&p.ex.pn)||1,st=vehSeat(g,pn);r.c.o.position.copy(st);r.c.o.rotation.y=g.rotation.y+seatRy(g,pn);r.c._ao='sit';r.c.play('sit');r.c._post=null;if(r.c.rod)r.c.rod.visible=false;if(g===VW.me&&r._psT!==ps){r._psT=ps;miniToast(`🚗 ${escRT(r.c.name||'')}님이 옆자리에 탔어요`,1800);}}return;}
  r._psT=null;if(!ps&&!(p.ex&&p.ex.vh))r.c._ao=null;const k=vehOn()&&p.ex&&p.ex.vh,ok=k&&VEHS.some(v=>v.k===vehBase(k))&&p.seat==null&&!(p.ex&&p.ex.ts!=null);let e=VW.peers.get(p.id);if(!ok){r.c._ao=null;r.c._post=null;if(e){scene.remove(e.g);VW.peers.delete(p.id);}return;}
- if(!e||e.k!==k){if(e)scene.remove(e.g);e={k,g:vehMesh(k),lp:r.c.o.position.clone()};scene.add(e.g);VW.peers.set(p.id,e);}/* v182: 맵 숨김(달·운하·기차길)에 같이 숨겨지지 않게 */if(!e.g.visible)e.g.visible=true;const o=r.c.o.position,mv=Math.hypot(o.x-e.lp.x,o.z-e.lp.z)>dt*.6;e.lp.copy(o);const gy=inDeck(o.x,o.z)?.39:Math.max(H(o.x,o.z),.1);e.g.position.set(o.x,gy,o.z);e.g.rotation.y=r.c.o.rotation.y;const st=vehSeat(e.g);e.g.position.x+=o.x-st.x;e.g.position.z+=o.z-st.z;const bob=vehAnim(e.g,dt,mv);e.g.position.y+=bob;o.y=st.y+bob;rideAnim(r.c,k);if(r.c.rod)r.c.rod.visible=!!(p.fish&&p.fish!=='off');try{const f=r.rf;if(f&&f.ln.visible&&r.c.tip){r.c.o.updateMatrixWorld(true);r.c.tip.getWorldPosition(RF_V);const a=f.g.attributes.position;a.setXYZ(0,RF_V.x,RF_V.y,RF_V.z);a.needsUpdate=true;}}catch(_){}});
+ if(!e||e.k!==k){if(e)scene.remove(e.g);e={k,g:vehMesh(k,1)/* v236: 다른 유저 탈것은 가벼운 버전(지원하는 모델만) */,lp:r.c.o.position.clone()};scene.add(e.g);VW.peers.set(p.id,e);}/* v182: 맵 숨김(달·운하·기차길)에 같이 숨겨지지 않게 */if(!e.g.visible)e.g.visible=true;const o=r.c.o.position,mv=Math.hypot(o.x-e.lp.x,o.z-e.lp.z)>dt*.6;e.lp.copy(o);const gy=inDeck(o.x,o.z)?.39:Math.max(H(o.x,o.z),.1);e.g.position.set(o.x,gy,o.z);e.g.rotation.y=r.c.o.rotation.y;const st=vehSeat(e.g);e.g.position.x+=o.x-st.x;e.g.position.z+=o.z-st.z;const bob=vehAnim(e.g,dt,mv);e.g.position.y+=bob;o.y=st.y+bob;rideAnim(r.c,k);if(r.c.rod)r.c.rod.visible=!!(p.fish&&p.fish!=='off');try{const f=r.rf;if(f&&f.ln.visible&&r.c.tip){r.c.o.updateMatrixWorld(true);r.c.tip.getWorldPosition(RF_V);const a=f.g.attributes.position;a.setXYZ(0,RF_V.x,RF_V.y,RF_V.z);a.needsUpdate=true;}}catch(_){}});
 FHOOK.push(()=>{for(const [id,e] of VW.peers)if(!remotes.has(id)){scene.remove(e.g);VW.peers.delete(id);}});
 {const _px=window.NK_POSE_EX;window.NK_POSE_EX=()=>{const o=_px()||{};if(VW.me&&VW.mk)o.vh=VW.mk;if(VPAS.id){o.ps=String(VPAS.id).slice(0,24);if((VPAS.pn||1)>1)o.pn=VPAS.pn;}return Object.keys(o).length?o:null;};}
 // 자동차 옆자리: 다른 유저 자동차를 누르면 옆에 탈 수 있어요 (한 명까지)

diff --git a/nakmeong.html b/nakmeong.html
@@ -66,7 +66,7 @@ var go=d.getElementById('go');if(go)go.disabled=true;
 }catch(e){}})();</script>
 <script src="lib/three.min.js"></script><script src="lib/GLTFLoader.js"></script><script src="lib/SkeletonUtils.js"></script>
 <script src="assets/assets-data.js"></script><script src="game-data.js?v92"></script><script src="game-data-v3.js?v80"></script><script src="game-data-v4.js"></script><script src="game-data-v5.js"></script><script src="game-data-v7.js"></script><script src="game-data-v8.js"></script><script src="game-data-v9.js?v93"></script><script src="game-data-v10.js?v80"></script><script src="game-data-v11.js?v80"></script><script src="game-data-v12.js"></script><script src="tank-themes-v12.js"></script><script src="game-data-v13.js"></script>
-<script src="game-data-v14.js?v41"></script><script src="game-data-v18.js"></script><script src="game-data-v19.js"></script><script src="game-data-v26.js?v103"></script><script src="game-data-v29.js?v96"></script><script src="game-data-v30.js?v156"></script><script src="game-data-tx-v195.js?v196"></script><script src="game-data-tier-v230.js?v232"></script><script src="fire-v20.js"></script><script src="profanity-v15.js?v43"></script><script src="tank-ext.js?v96"></script><script src="rod-3d.js?v226"></script><script src="systems.js?v232"></script><script src="sim-result.js"></script><script src="chars-v18.js?v31"></script><script src="xmas-chars-v201.js?v202"></script><script src="chars-round-v29.js?v31"></script><script src="rod-hand-v204.js?v204"></script><script src="world-sync.js?v118"></script><script src="vehicles-boat2-v151.js?v183"></script><script src="seatown-v151.js?v157"></script><script src="turtle-c3-v158.js?v158"></script><script src="lib/BufferGeometryUtils.js"></script><script src="canal-v160.js?v189"></script><script src="realtime.js?v234"></script><script src="wish-v190.js?v190"></script><script src="game-v2.js?v235"></script><script src="vbuild.js?v114"></script><script src="game-ev-v55.js?v80"></script><script src="ev-v24.js?v201"></script><link rel="stylesheet" href="tut-v25.css?v44"><link rel="stylesheet" href="super-transcend-v184.css?v222"><script src="tut-v25.js?v80"></script><script src="ui-edit-v26.js?v86"></script><script src="menu-v27.js?v55"></script><script src="menu-v51.js?v197"></script><script src="duck-mesh-v26.js?v31"></script><script src="duck-var-v28.js?v36"></script><script src="duck-v28.js?v201"></script>
+<script src="game-data-v14.js?v41"></script><script src="game-data-v18.js"></script><script src="game-data-v19.js"></script><script src="game-data-v26.js?v103"></script><script src="game-data-v29.js?v96"></script><script src="game-data-v30.js?v156"></script><script src="game-data-tx-v195.js?v196"></script><script src="game-data-tier-v230.js?v232"></script><script src="fire-v20.js"></script><script src="profanity-v15.js?v43"></script><script src="tank-ext.js?v96"></script><script src="rod-3d.js?v226"></script><script src="systems.js?v232"></script><script src="sim-result.js"></script><script src="chars-v18.js?v31"></script><script src="xmas-chars-v201.js?v202"></script><script src="chars-round-v29.js?v31"></script><script src="rod-hand-v204.js?v204"></script><script src="world-sync.js?v118"></script><script src="vehicles-boat2-v151.js?v183"></script><script src="seatown-v151.js?v157"></script><script src="turtle-c3-v158.js?v158"></script><script src="sleigh-v236.js?v236"></script><script src="lib/BufferGeometryUtils.js"></script><script src="canal-v160.js?v189"></script><script src="realtime.js?v234"></script><script src="wish-v190.js?v190"></script><script src="game-v2.js?v236"></script><script src="vbuild.js?v114"></script><script src="game-ev-v55.js?v80"></script><script src="ev-v24.js?v201"></script><link rel="stylesheet" href="tut-v25.css?v44"><link rel="stylesheet" href="super-transcend-v184.css?v222"><script src="tut-v25.js?v80"></script><script src="ui-edit-v26.js?v86"></script><script src="menu-v27.js?v55"></script><script src="menu-v51.js?v197"></script><script src="duck-mesh-v26.js?v31"></script><script src="duck-var-v28.js?v36"></script><script src="duck-v28.js?v201"></script>
 <script src="super-transcend-v184.js?v234"></script>
 <link rel="stylesheet" href="adv-route-a.css?v214"><link rel="stylesheet" href="merge-board-v192.css?v231"><script src="merge-board-v192.js?v231"></script>
 <link rel="stylesheet" href="xmas-v201.css?v202"><link rel="stylesheet" href="talisman-tx-v195.css?v196"><script src="talisman-tx-v195.js?v196"></script>

diff --git a/guide-site/public/site.js b/guide-site/public/site.js
@@ -123,6 +123,7 @@
 
   /* ── 업데이트 */
   const UPD = [
+    { v: 'v236', d: '11월 27일', t: '🛷 산타 썰매가 새로워졌어요', img: 'img/upd-v236-sleigh.jpg', s: ['네모난 블록 썰매가 곡선 썰매로 바뀌었어요 · 앞이 말려 올라간 황금 썰매 날, 반짝이는 빨간 몸통과 금 테두리, 별·눈꽃 장식', '벨벳 좌석과 하얀 털 테두리, 뒤 짐칸에는 선물 자루와 리본 선물, 앞에는 빛나는 랜턴과 호랑가시 리스', '순록 3마리도 둥근 모습으로 바뀌었고, 맨 앞 루돌프 코가 빨갛게 빛나요', '이미 가진 산타 썰매는 그대로 새 모습으로 보여요 · 다른 유저 썰매는 가벼운 버전으로 그려서 버벅임을 줄였어요'] },
     { v: 'v235', d: '11월 27일', t: '🔒 닉네임 고정 · 달 이어하기', s: ['닉네임은 처음 정하면 바꿀 수 없어요. 게스트도 시작할 때 닉네임을 꼭 정해요', '다른 사람이 이미 쓰는 닉네임은 고를 수 없어요', '예전 자동 이름(나+숫자)이던 분은 설정에서 한 번만 닉네임을 정할 수 있어요', '달·운하에서 나갔다가 다시 들어오면 시작 화면에서 서버만 골라도 그 맵에서 이어서 시작해요', '호숫가로 가고 싶으면 「호숫가에서 시작할래요」를 눌러요'] },
     { v: 'v234', d: '11월 26일', t: '🐟 낚시 카드 · 접속 안정', s: ['낚시 카드가 오른쪽 위 「업적 달성」 알림 뒤에 숨어서 안 보이던 문제를 고쳤어요 (달 맵 포함)', '레벨 업 창이 낚시 카드를 덮으면, 창을 닫은 뒤 카드를 다시 보여 줘요', '절전 모드·화면 꺼짐에서 깨어난 뒤 「혼자 플레이」로 굳던 문제 — 이제 알아서 다시 접속해요', '「작은 창으로 띄우기」는 예전 작은 창으로 떠요 (PC 새 창은 설정에서 켤 수 있어요)', '달 맵 별자리 소개가 그릴·네온·꾸미기 버튼에 가리지 않게 자리를 알아서 맞춰요'] },
     { v: 'v233', d: '11월 26일', t: '📱 휴대폰 버벅임 줄이기', s: ['휴대폰에서 FPS를 재서 느리면 해상도를 조금씩 낮추고, 넉넉하면 다시 올려요 (호숫가·운하·달 모두)', '휴대폰 「선명하게」는 해상도 최대 2배로 시작해요 · 3배와 눈으로는 거의 같지만 그릴 픽셀이 절반 가까이 줄어요', '호수 물을 지금 고른 물 모양만 계산하도록 바꿨어요 · 화면은 똑같고 물 그리기가 약 30% 가벼워졌어요'] },

diff --git a/guide-site/public/index.html b/guide-site/public/index.html
@@ -114,6 +114,6 @@
   <div id="pdBody"></div>
  </div>
 </div>
-<script src="site.js?v235"></script>
+<script src="site.js?v236"></script>
 </body>
 </html>

diff --git a/docs/changes/v236.md b/docs/changes/v236.md
@@ -1,0 +1,41 @@
+# v236 — 🛷 산타 썰매 v2 (곡선 썰매 · 둥근 순록)
+
+- 날짜: 2026-11-27 (Asia/Seoul)
+- 기준: main 최고 버전 **v235**. 머지 직전 다시 rebase 후 번호 확정.
+- 서버(Worker) 변경: **없음** · LAB 키 추가 **없음** · 저장 데이터 변경 **없음**
+- 캐시: `sleigh-v236.js?v236`(새 파일) · `game-v2.js?v236` (`nakmeong.html`) · 가이드 `site.js?v236`
+- 요청: "싼타썰매는 그대로 적용해 줘." (시안 `/workspace/mount-upgrade-mock/sleigh/` 그대로)
+
+## 사용자 입장에서 달라진 것
+
+- 산타 썰매가 네모난 블록 모델에서 곡선 모델로 바뀌었어요. 이미 가진 썰매도 새 모습으로 보여요. 속도, 얻는 방법, 가격, 탑승 위치는 그대로예요.
+- 썰매: 앞이 말려 올라간 황금 곡선 날과 S자 지지대, 진홍 광택 S자 옆판과 금 테두리, 금 별·소용돌이·눈꽃 장식
+- 좌석: 벨벳 쿠션, 하얀 털 테두리, 휘어진 등받이와 금 단추
+- 뒤 짐칸: 선물 자루와 지팡이 사탕, 리본 매듭 선물 상자, 원통 선물
+- 앞: 빛나는 랜턴, 호랑가시 리스, 금 방울
+- 산타는 둥근 모습으로 오른쪽에 앉아요(낚싯대 길을 비워요). 순록 3마리도 둥근 몸과 가지 뿔로 바뀌었고, 루돌프 코가 빛나요.
+- 상점과 가방의 썰매 그림(`img/veh/santa.png`)도 새 모델로 다시 그렸어요.
+
+## 바뀐 코드
+
+- `sleigh-v236.js` (새 파일): `SLEIGH_V2(THREE,{lite})`. BoxGeometry 없이 Tube·Extrude(베벨)·Lathe·Sphere로만 만들었어요. 지금 썰매와 약속이 같아요(앞 +z, 바닥 0, ×1.7, `seat=[0,.92,-.45]`, `legs/heads/pose='sit'`). 그래서 다리·머리 흔들기, 펫 자리(PRSLOT), slimGroup은 그대로예요.
+- `game-v2.js`
+  - `VEHB.V.santa(lite)`: `SLEIGH_V2`가 있으면 새 모델을 쓰고, 없거나 오류가 나면 예전 모델로 돌아가요.
+  - `vehMesh(x, lite)`: 두 번째 인자를 받아 모델에 넘겨요. 다른 유저 탈것(RHOOK)은 `vehMesh(k,1)`로 불러요. lite를 지원하는 모델은 지금 산타 썰매 하나예요. 다른 탈것은 인자를 무시해서 그대로예요.
+- `nakmeong.html`: `turtle-c3-v158.js` 뒤에 `sleigh-v236.js` 추가
+
+## 성능 (게임 안에서 측정, slimGroup 후)
+
+| | 삼각형 | 그리는 덩어리 |
+|---|---:|---:|
+| 예전 | 1,882 | 67 |
+| 새 · 내 썰매 | 41,191 | 34 |
+| 새 · 다른 유저 썰매(lite) | 25,563 | 34 |
+
+- 점조명은 없어요. 빛은 발광 재질과 스프라이트로만 내요.
+- 다리 12개와 머리 4개는 그룹마다 정점색 메시 1개로 미리 구워서 드로우콜을 줄였어요.
+- 환경맵(256×128 그라데이션)과 재질은 모든 썰매가 같이 써요.
+
+## 확인
+- 솔로 모드에서 라이브 5가지 크기로 확인: 탑승, 상점 썸네일, 정렬, 겹침
+- 미완료: 실제 폰 FPS, 9번방 다른 유저 화면(lite)
